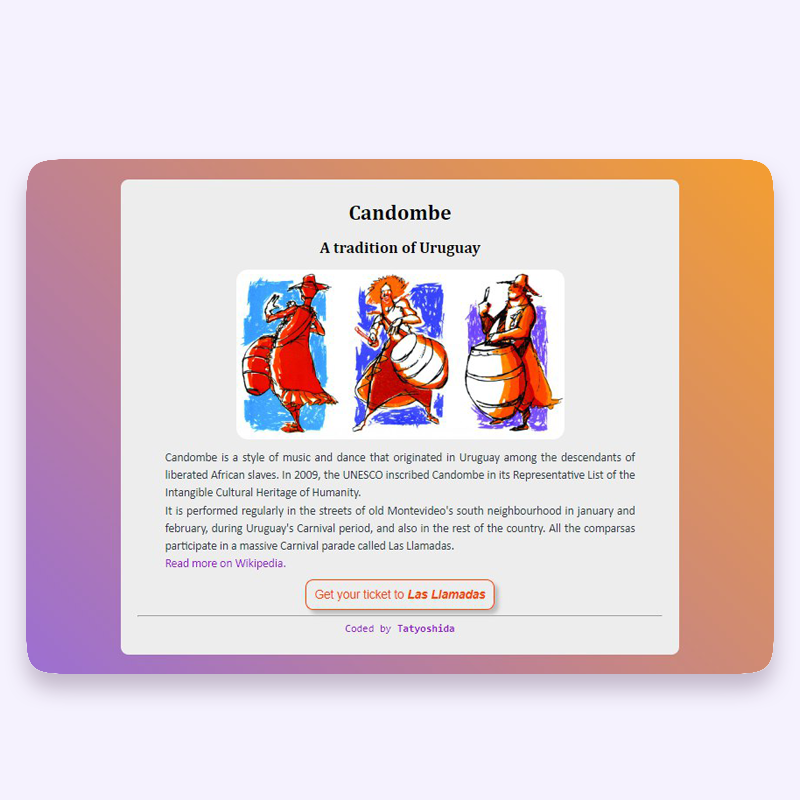
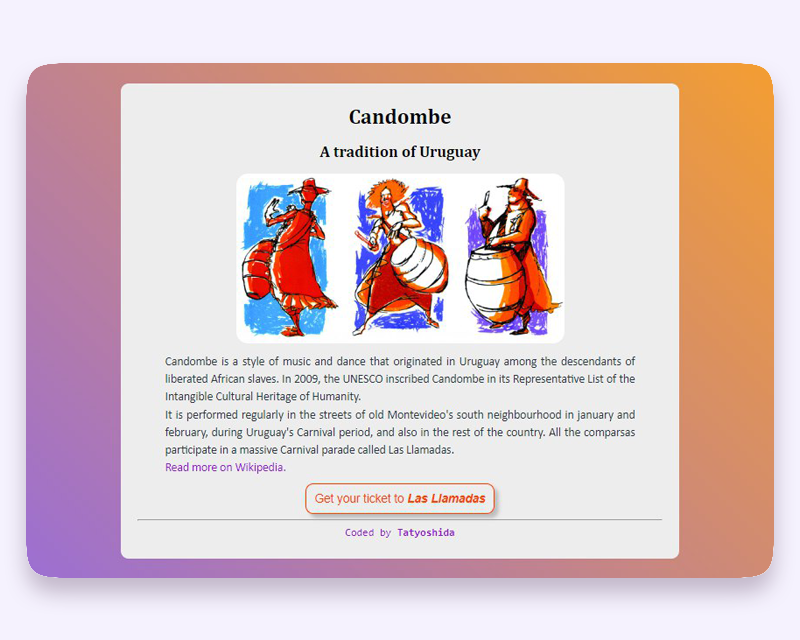
Added About page & updated style

Changed region(s): [[0.0312, 0.0938, 0.9688, 0.9375]]

diff --git a/about.html b/about.html
@@ -1,0 +1,57 @@
+<!DOCTYPE html>
+<html lang="en">
+
+<head>
+  <meta charset="UTF-8">
+  <meta http-equiv="X-UA-Compatible" content="ie=edge">
+  <meta name="viewport" content="width=device-width, initial-scale=1.0">
+  <title>Tat Yoshida</title>
+
+  <link href="https://cdn.jsdelivr.net/npm/bootstrap@5.3.2/dist/css/bootstrap.min.css" rel="stylesheet"
+    integrity="sha384-T3c6CoIi6uLrA9TneNEoa7RxnatzjcDSCmG1MXxSR1GAsXEV/Dwwykc2MPK8M2HN" crossorigin="anonymous" />
+  <link rel="preconnect" href="https://fonts.googleapis.com">
+  <link rel="preconnect" href="https://fonts.gstatic.com" crossorigin>
+  <link href="https://fonts.googleapis.com/css2?family=Montserrat:wght@700&family=Nunito:wght@200;400;700&display=swap"
+    rel="stylesheet">
+  <link rel="stylesheet" href="/css/style.css">
+
+  <script src="https://cdn.jsdelivr.net/npm/bootstrap@5.3.2/dist/js/bootstrap.bundle.min.js"
+    integrity="sha384-C6RzsynM9kWDrMNeT87bh95OGNyZPhcTNXj1NW7RuBCsyN/o0jlpcV8Qyq46cDfL"
+    crossorigin="anonymous"></script>
+  <script src="https://kit.fontawesome.com/15e4061484.js" crossorigin="anonymous"></script>
+
+</head>
+<nav class="navbar navbar-expand-lg bg-dark border-bottom border-body pt-3 pb-3" data-bs-theme="dark">
+  <div class="container-fluid">
+    <a class="navbar-brand ms-4" href="/">Tat Yoshida</a>
+    <button class="navbar-toggler" type="button" data-bs-toggle="collapse" data-bs-target="#navbarNavAltMarkup"
+      aria-controls="navbarNavAltMarkup" aria-expanded="false" aria-label="Toggle navigation">
+      <span class="navbar-toggler-icon"></span>
+    </button>
+    <div class="collapse navbar-collapse justify-content-end" id="navbarNavAltMarkup">
+      <div class="navbar-nav">
+        <a class="nav-link active ms-3" aria-current="page" href="/">Home</a>
+        <a class="nav-link ms-3" href="/about.html">About me</a>
+        <a class="nav-link ms-3" href="#">My Work</a>
+        <a class="nav-link ms-3 me-3" href="#">Contact me</a>
+      </div>
+    </div>
+  </div>
+</nav>
+<main>
+  <div class="container">
+    <h2>About me</h2>
+    <div class="row">
+      <div class="col-md-6">
+        <h3 class="mt-3">Tat Yoshida</h3>
+        <h4>Front-end developer from Montevideo, Uruguay based in Argentina.</h4>
+        <p class="mt-5">I've been fully supported by SheCodes Foundation to learn code in SheCodes Pro program. I've had the opportunity to
+        learn and apply a lot of powerful techniques to materialize ideas with.</p>
+      </div>
+      <div class="col-md-6">
+        <img src="/images/ty.jpg" class="photo" alt="tatyoshida front-end developer"/>
+      </div>
+    </div>
+  </div>
+</main>
+

diff --git a/index.html b/index.html
@@ -20,17 +20,17 @@
   
 </head>
 <body>
-  <nav class="navbar navbar-expand-lg bg-dark border-bottom border-body" data-bs-theme="dark">
+  <nav class="navbar navbar-expand-lg bg-dark border-bottom border-body pt-3 pb-3" data-bs-theme="dark">
     <div class="container-fluid">
-      <a class="navbar-brand ms-3" href="#">Tat Yoshida</a>
+      <a class="navbar-brand ms-4" href="/">Tat Yoshida</a>
       <button class="navbar-toggler" type="button" data-bs-toggle="collapse" data-bs-target="#navbarNavAltMarkup"
         aria-controls="navbarNavAltMarkup" aria-expanded="false" aria-label="Toggle navigation">
         <span class="navbar-toggler-icon"></span>
       </button>
       <div class="collapse navbar-collapse justify-content-end" id="navbarNavAltMarkup">
         <div class="navbar-nav">
-          <a class="nav-link active " aria-current="page" href="#">Home</a>
-          <a class="nav-link ms-3" href="#">About me</a>
+          <a class="nav-link active ms-3" aria-current="page" href="/">Home</a>
+          <a class="nav-link ms-3" href="/about.html">About me</a>
           <a class="nav-link ms-3" href="#">My Work</a>
           <a class="nav-link ms-3 me-3" href="#">Contact me</a>
         </div>
@@ -48,21 +48,21 @@
   </div>
   <div class="container">
     <div class="row">
-      <div class="col-sm-6">
+      <div class="col-md-6 mb-5">
         <div class="card img-card">
           <img src="/images/clima 2.png" class="card-img-top" alt="weather app">
-          <div class="card-body text-center">
-            <h5 class="card-title">Weather Project</h5>
-            <h6 class="card-subtitle mb-2 text-body-secondary">Front-end developer</h6>
+          <div class="card-body text-center mt-3 mb-2">
+            <h5>Weather Project</h5>
+            <h6>Front-end developer</h6>
           </div>
         </div>
       </div>
-      <div class="col-sm-6">
+      <div class="col-md-6 mb-5">
         <div class="card img-card">
           <img src="/images/candombe.png" class="card-img-top" alt="candombe project">
-          <div class="card-body text-center">
-            <h5 class="card-title">Candombe Project</h5>
-            <h6 class="card-subtitle mb-2 text-body-secondary">Front-end developer</h6>
+          <div class="card-body text-center mt-3 mb-2">
+            <h5>Candombe Project</h5>
+            <h6>Front-end developer</h6>
           </div>
         </div>      
       </div>

diff --git a/css/style.css b/css/style.css
@@ -11,30 +11,29 @@ body {
   background: var(--background-color);
 }
 
-h1,
+h1 {
+  color: var(--primary-color);
+  font-size: 96px;
+  font-weight: 700;
+}
+
 h2,
 h3 {
   font-weight: 700;
   color: var(--secondary-color);
 }
 
-h1 {
-  color: var(--primary-color);
-  font-size: 96px;
-  line-height: 1.5;
-}
-
-h2 {
-  font-size: 24px;
-}
-
-h3 {
- font-size: 36px;
-}
-
 .hero {
   text-align: center;
   padding-top: 52px;
+}
+
+.hero h2 {
+  font-size: 24px;
+}
+
+.hero h3 {
+ font-size: 36px;
 }
 
 .contact {
@@ -47,10 +46,35 @@ h3 {
   border-radius: 50px;
 }
 
-.img-card {
-  background: var(--secondary-color);
+.card {
+  background: #2D2727;
+  color: var(--secondary-color);
+}
+.card image {
+  height: 600px;
 }
 
+main {
+  margin-top: 60px;
+}
+
+main h2 {
+  font-family: 'Montserrat', sans-serif;
+  color: var(--accent-color);
+  text-transform: uppercase;
+  font-size: 24px;
+}
+
+main h3 {
+  font-size: 64px;
+}
+main h4 {
+  color: var(--secondary-color);
+}
+.photo {
+  width: 90%;
+  border-radius: 6px;
+}
 
 @media(max-width: 900px) {
   h1 {
